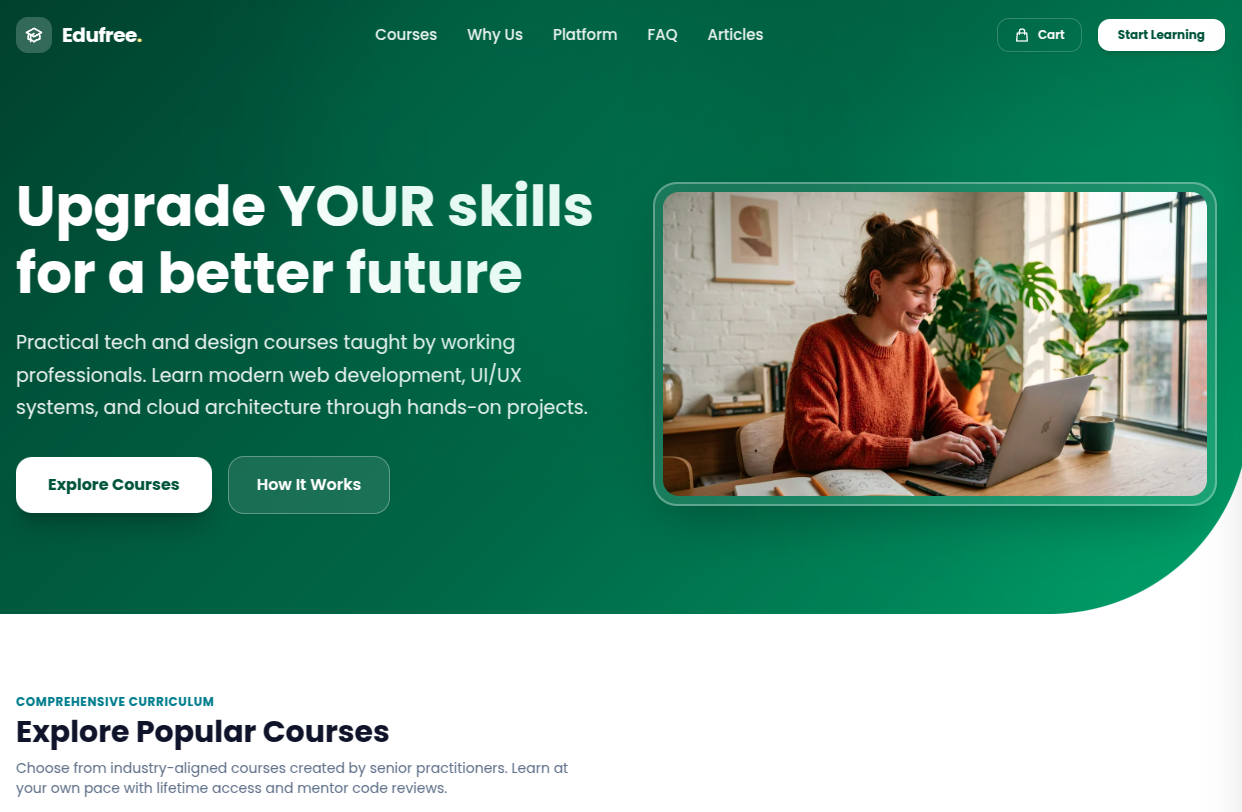
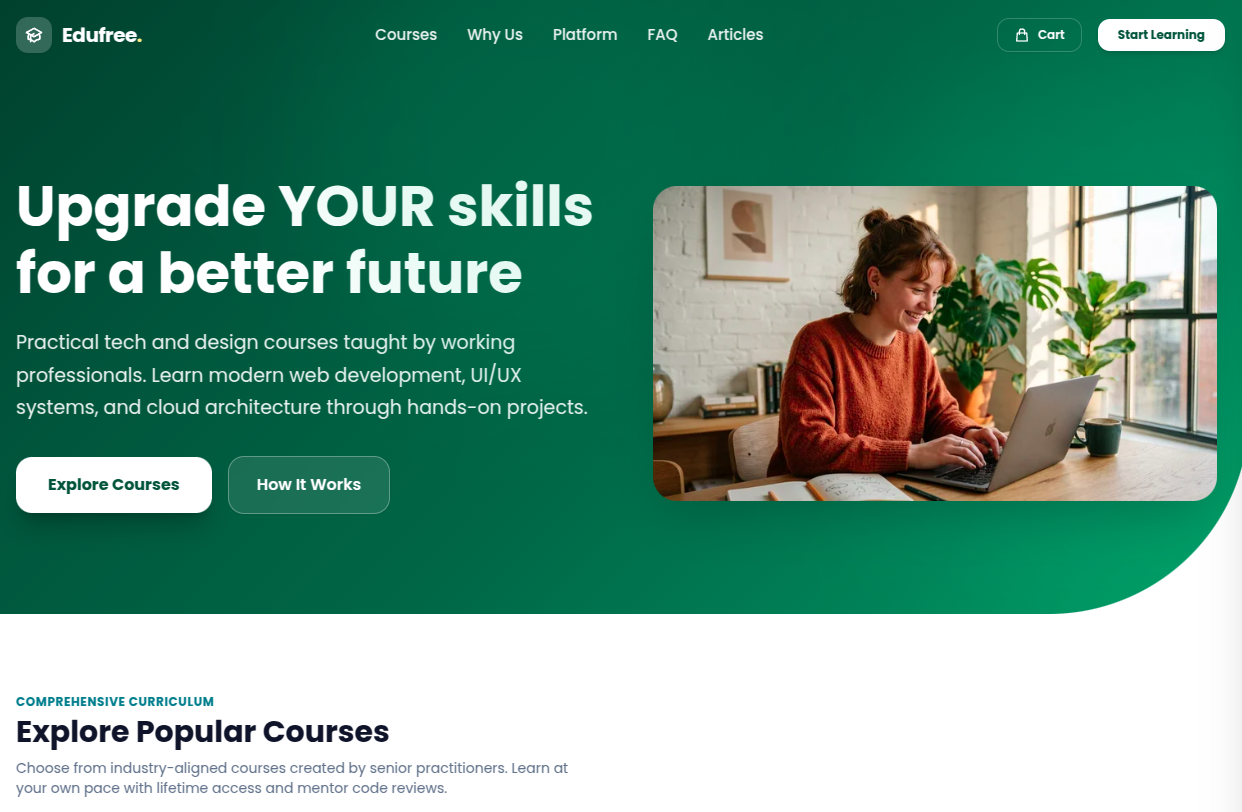
feat(projects): update Edufree preview with frameless hero visual

Changed region(s): [[0.5201, 0.2155, 0.9791, 0.6466]]

diff --git a/index.html b/index.html
@@ -754,7 +754,7 @@
             <div class="projects__card projects__card--extra projects__card--hidden">
               <div class="projects__card-img">
                 <img
-                  src="./images/Tailwind.webp?v=2"
+                  src="./images/Tailwind.webp?v=3"
                   alt="Edufree EdTech Landing"
                   class="projects__card-image"
                   width="380"
